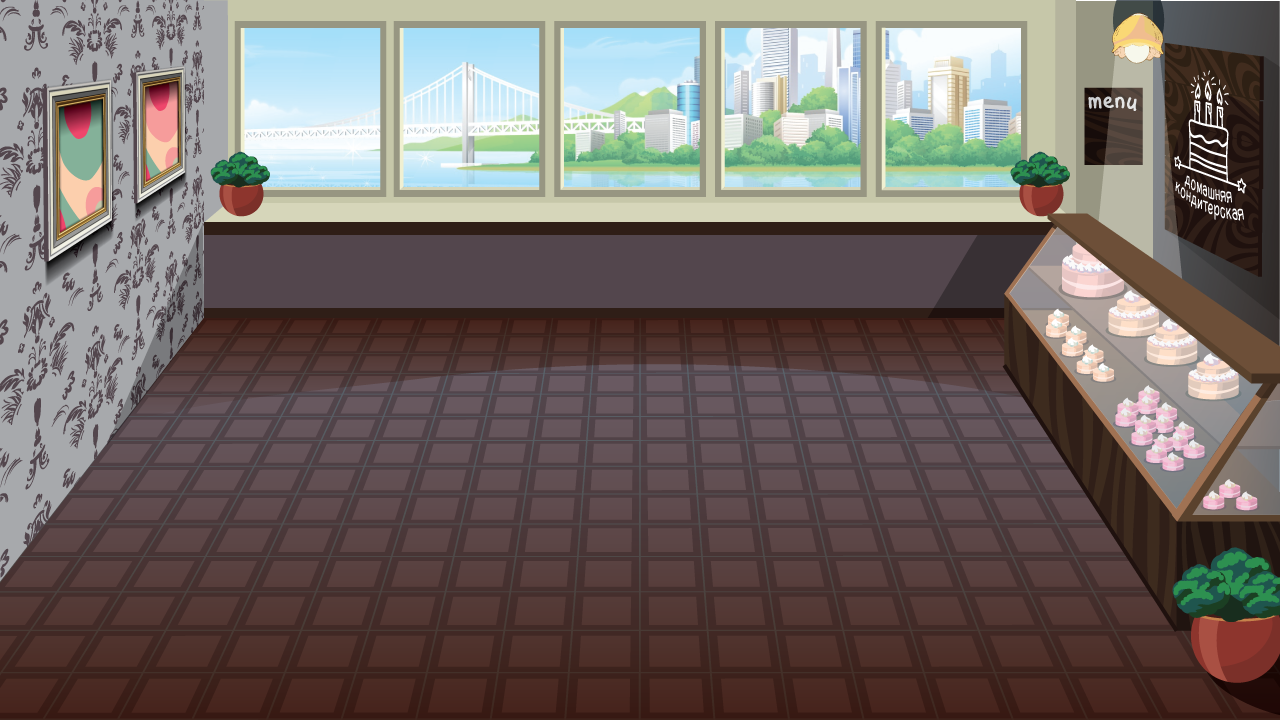
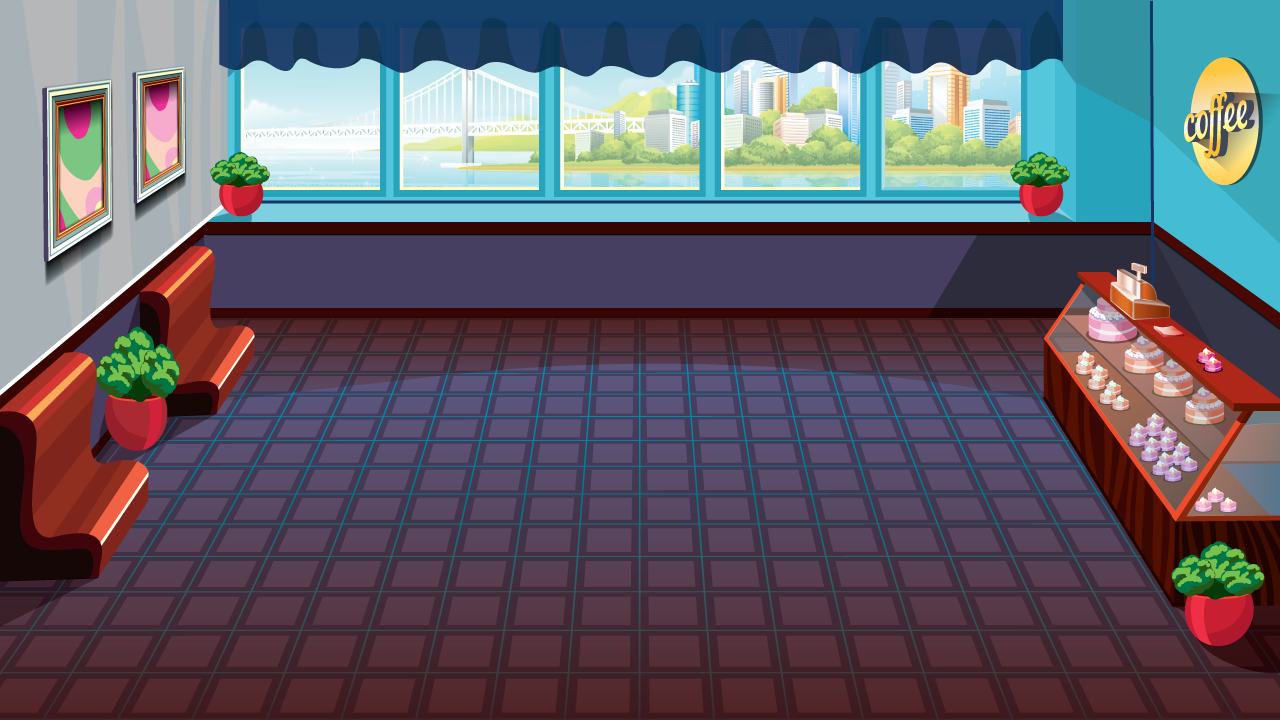
upd

diff --git a/Assets/Scripts/Logic/Engine.cs b/Assets/Scripts/Logic/Engine.cs
@@ -131,6 +131,22 @@ namespace Assets.Scripts.Logic
 
             RemoveUnusedHobbies(tables);
 
+            //TODO:
+
+            Level.Background = "CoffeeShop";
+
+            if (Level.TableNumber >= 3)
+            {
+                Level.Background = "BurgerKing";
+            }
+
+            if (Level.TableNumber >= 6)
+            {
+                Level.Background = "Paris";
+            }
+
+            // TODO:
+
             for (var i = 0; i < Level.TableNumber; i++)
             {
                 var table = PrefabsHelper.Instantiate(Level.TableName, Get<Play>().GameTransform);
@@ -320,7 +336,7 @@ namespace Assets.Scripts.Logic
                 case SystemLanguage.Russian:
                 case SystemLanguage.Ukrainian:
                 case SystemLanguage.Belarusian:
-                    Localization.language = "Russian";
+                    Localization.language = "English"; // TODO:
                     break;
                 default:
                     Localization.language = "English";
